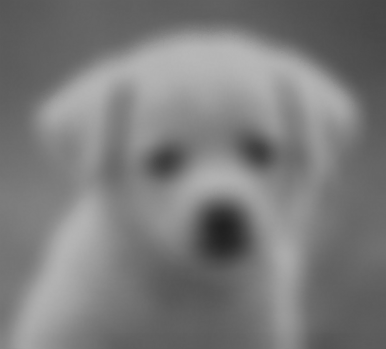
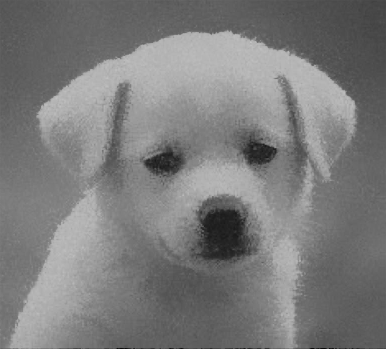
fix overflow

diff --git a/homeworks/homework3.py b/homeworks/homework3.py
@@ -26,7 +26,7 @@ def bilateral_filter(
         for j in range(w):
             padded_i = i + r
             padded_j = j + r
-            neighbors = padded_image[padded_i - r: padded_i + r + 1, padded_j - r: padded_j + r + 1]
+            neighbors = np.uint64(padded_image[padded_i - r: padded_i + r + 1, padded_j - r: padded_j + r + 1])
 
             mutual_W = np.exp(-((neighbors - src_image[i][j])**2 / (2 * sigma_color**2)))
 
@@ -50,7 +50,7 @@ def main(cfg):
     sigma_color = cfg['sigma_color']
 
     before_opencv = datetime.datetime.now()
-    opencv_dst_image = cv2.bilateralFilter(src=src_image,sigmaSpace=sigma_space, sigmaColor=sigma_color, d = int(2 * sigma_space + 1))
+    opencv_dst_image = cv2.bilateralFilter(src=src_image,sigmaSpace=sigma_space, sigmaColor=sigma_color, d = -1)
     cv2.imwrite(cfg['opencv_output_image_path'], opencv_dst_image)
     after_opencv = datetime.datetime.now()
     print(f"opencv bilateral filtration duration {after_opencv - before_opencv}")
